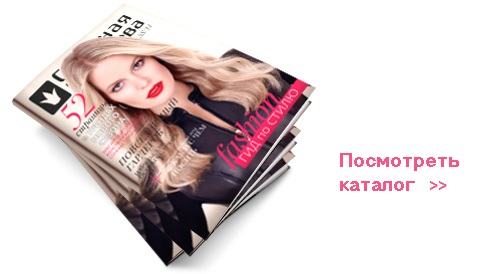
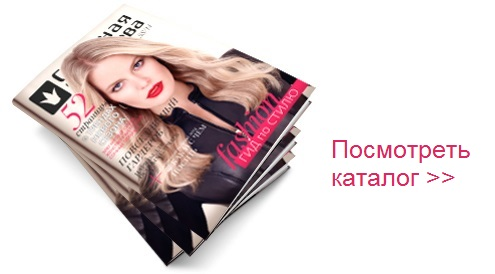
change colors - minor design amendment

Changed region(s): [[0.6667, 0.4964, 0.9697, 0.7007]]

diff --git a/css/style.css b/css/style.css
@@ -201,7 +201,7 @@ table .sep {
 }
 
 .red {
-	color:#9a0101!important;
+	color:#d72a60!important;
 }
 
 .nowrap {
@@ -230,7 +230,7 @@ table .sep {
 	height:3px;
 	overflow:hidden;
 	margin:0px 0 20px 0;
-	background:#9a0101!important;
+	background:#d72a60!important;
 }	
 
 .grey {
@@ -518,7 +518,7 @@ table .sep {
 .footer {
 	position:relative;
 	border-width:3px;
-	border-color:#990100;
+	border-color:#d72a60;
 	padding:19px 0 0 0;
 	margin-top:-117px;
 	line-height:14px;
@@ -554,7 +554,7 @@ table .sep {
 
 .footer strong {
 	font-weight:normal;
-	color:#990100;
+	color:#d72a60;
 }
 
 .sort {
@@ -619,7 +619,7 @@ table .sep {
 	margin:13px 0 0 -10px;
 	top:1px;
 	left:5px;
-	background:#11b1e3;
+	background:#3bb5c0;
 	color:#fff;
 	border-top:1px solid #fff;
 	position:relative;
@@ -630,7 +630,7 @@ table .sep {
 
 .catalog .price.bg-red,
 .item .price.bg-red {
-	background:#9a0101;
+	background:#d72a60;
 }
 
 .catalog article a:hover,
@@ -1264,7 +1264,7 @@ text-transform: uppercase;
 	bottom:25px;
 	left:0;
 	white-space:nowrap;
-	background:#3a4147; /*#424b56 #990100*/
+	background:#3bb5c0; /*#424b56 #990100*/
 	font-size:19px;
 	line-height:24px;
 	padding:2px 18px;
@@ -1309,7 +1309,7 @@ text-transform: uppercase;
 	margin:5px 0 0 -10px;
 	padding:2px 10px;
 	min-width:167px;
-	background:#990100;
+	background:#d72a60;
 	color:#fff;
 }
 
